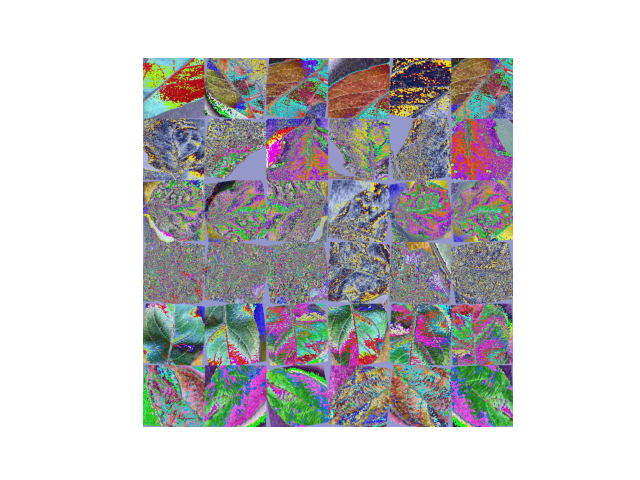
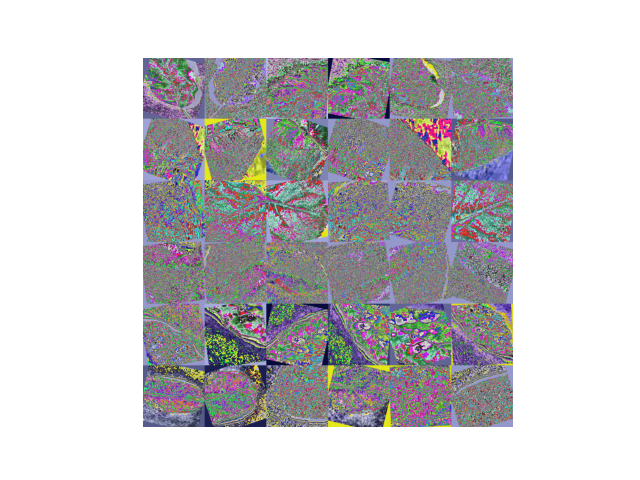
reevaluated training dataset transformations. Implemented adaptive histogram equalization, which adds more contrast to the anomalies present on the leaf

diff --git a/train/local_training.py b/train/local_training.py
@@ -22,6 +22,7 @@ from torch.utils.tensorboard import SummaryWriter
 from sklearn.model_selection import train_test_split
 from sklearn.metrics import ConfusionMatrixDisplay, classification_report
 from joblib import dump
+from img_aug_transform import CustomCLAHE
 
 
 def valid_file(filename: str) -> bool:
@@ -79,6 +80,7 @@ def show_dataset(dataset: DatasetFolder | Subset, n=6) -> None:
     """
 
     # Transform image from tensor to PILImage
+
     transform = torchvision.transforms.ToPILImage()
     img = np.vstack([np.hstack([np.asarray(transform(dataset[i][0])) for _ in range(n)])
                      for i in range(n)])
@@ -114,6 +116,11 @@ def show_batch(dataset_loader: DataLoader, num_of_images: int = 9) -> None:
 
     except AssertionError as msg:
         print("Error:", msg)
+
+
+def custom_clahe_transform(img):
+    transform = CustomCLAHE(clip_limit=2.0, tile_grid_size=(8, 8))
+    return transform(img)
 
 
 def loader_shape(dataset_loader: DataLoader) -> Tuple[torch.Size, torch.Size]:
@@ -225,15 +232,14 @@ def train():
     print(f"Number of test samples: {len(test_dataset)}")
 
     train_transforms = torchvision.transforms.Compose([
+        torchvision.transforms.Lambda(custom_clahe_transform),  # increases contrast in a smart way
         torchvision.transforms.CenterCrop(224),
         torchvision.transforms.RandomResizedCrop(224),
-        torchvision.transforms.RandomCrop(224),
-        torchvision.transforms.ColorJitter(brightness=.05, contrast=0.5, saturation=.05),
         torchvision.transforms.RandomHorizontalFlip(),
         torchvision.transforms.RandomVerticalFlip(),
         torchvision.transforms.RandomRotation(20, interpolation=torchvision.transforms.InterpolationMode.BILINEAR,
                                               expand=False),
-        torchvision.transforms.RandomGrayscale(),
+        torchvision.transforms.ColorJitter(brightness=.05, contrast=0.5, saturation=.05, hue=.05),
         torchvision.transforms.Resize((224, 224)),
         torchvision.transforms.ToTensor(),
         torchvision.transforms.Normalize((0.4914, 0.4822, 0.4465), (0.2023, 0.1994, 0.2010))

diff --git a/img_aug_transform.py b/img_aug_transform.py
@@ -1,5 +1,30 @@
 import numpy as np
 from imgaug import augmenters as iaa
+from torchvision.transforms import functional as F
+import cv2
+from PIL import Image
+
+class CustomCLAHE(object):
+    def __init__(self, clip_limit=2.0, tile_grid_size=(8, 8)):
+        self.clip_limit = clip_limit
+        self.tile_grid_size = tile_grid_size
+
+    def __call__(self, img):
+        if isinstance(img, np.ndarray):
+            img = img.astype(np.uint8)
+        else:
+            img = np.array(img)
+
+        lab_image = cv2.cvtColor(img, cv2.COLOR_BGR2LAB)
+        l_channel, a_channel, b_channel = cv2.split(lab_image)
+
+        clahe = cv2.createCLAHE(clipLimit=2.0, tileGridSize=(8, 8))
+        equalized_l_channel = clahe.apply(l_channel)
+
+        equalized_lab_image = cv2.merge([equalized_l_channel, a_channel, b_channel])
+        equalized_bgr_image = cv2.cvtColor(equalized_lab_image, cv2.COLOR_LAB2BGR)
+
+        return Image.fromarray(equalized_bgr_image)
 
 
 class ImgAugTransform:
